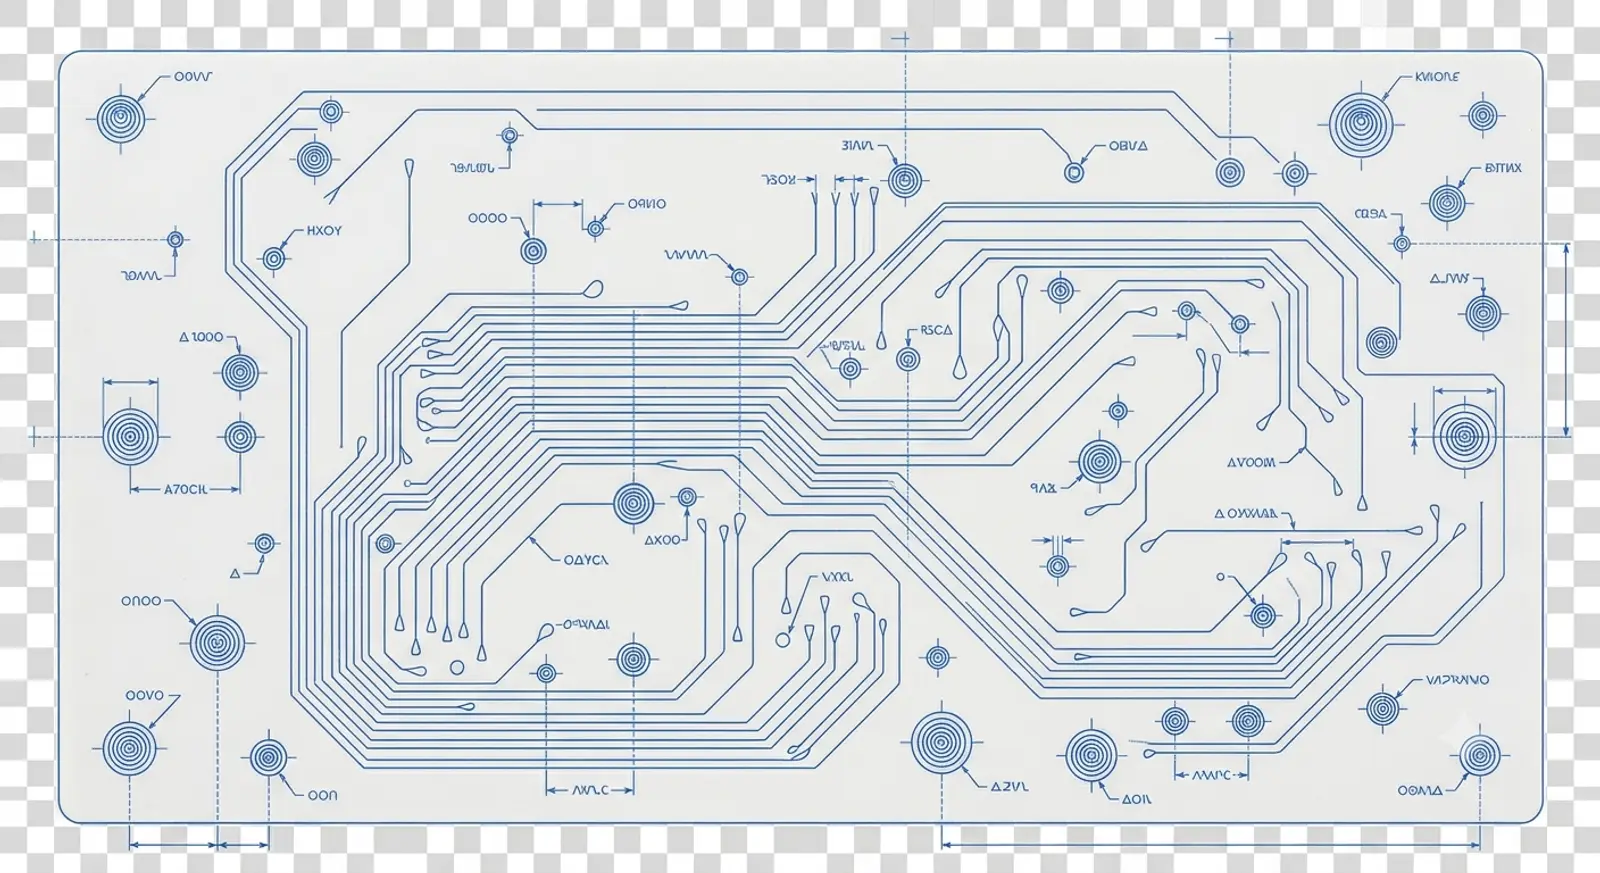
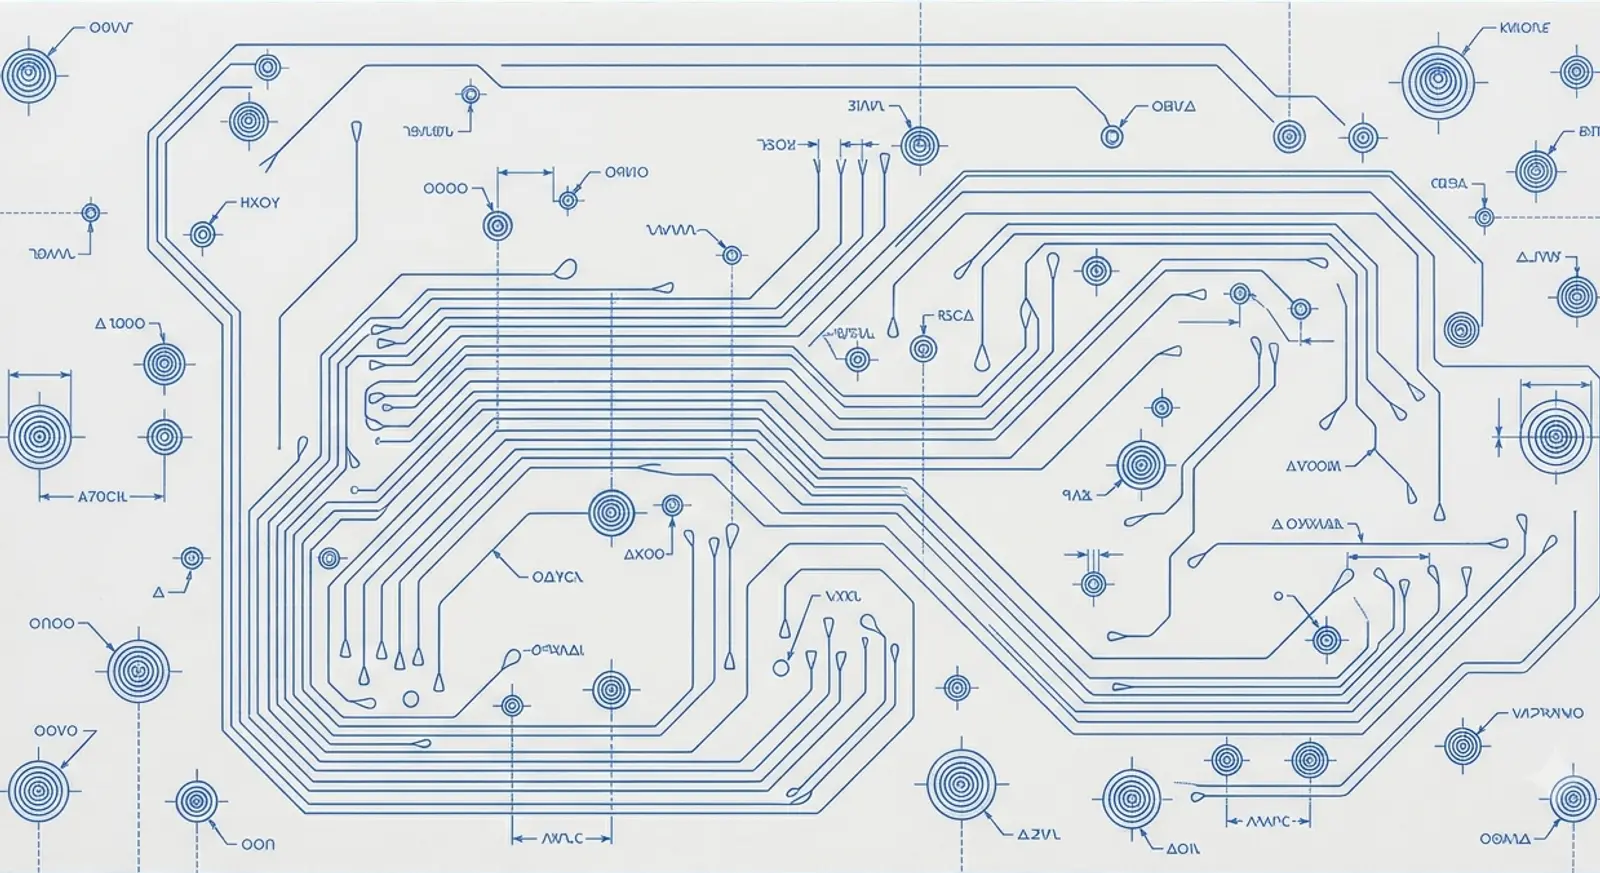
redesign: SEC.05 drawing register — FIG.01-04 index strip
Rotating wireframe core returns as FIG.01, contour, circuit plan, and
title block indexed like an engineering drawing list. Blueprint asset
recropped and brightness/multiply-blended to kill the generator's fake
checkerboard; footer stamp removed (register carries it now).

diff --git a/app/page.tsx b/app/page.tsx
@@ -1,5 +1,6 @@
 import Image from "next/image";
 import ContactForm from "@/components/ContactForm";
+import CoreArtifact from "@/components/CoreArtifact";
 import PhasedBuildIntro from "@/components/PhasedBuildIntro";
 import Reveal from "@/components/Reveal";
 import SystemMap from "@/components/SystemMap";
@@ -375,6 +376,58 @@ export default function Home() {
             </div>
           </Reveal>
         </section>
+        {/* SEC.05: Drawing register */}
+        <section className="mx-auto max-w-7xl px-6 pb-24 lg:px-12 lg:pb-32">
+          <Reveal>
+            <SectionRule sec="SEC.05" title="Drawing register" />
+            <div className="mt-14 grid gap-px overflow-hidden rounded-md border border-line bg-line-soft sm:grid-cols-2 lg:grid-cols-4">
+              <figure className="flex flex-col bg-void p-4">
+                <div className="h-40">
+                  <CoreArtifact />
+                </div>
+                <figcaption className="mt-3 font-mono text-legal uppercase text-ink-faint">
+                  FIG.01 / The core, rotating
+                </figcaption>
+              </figure>
+              <figure className="flex flex-col bg-void p-4">
+                <Image
+                  src="/tex/contour.webp"
+                  alt="Contour line drawing"
+                  width={1400}
+                  height={763}
+                  className="h-40 w-full object-cover brightness-105 mix-blend-multiply"
+                />
+                <figcaption className="mt-3 font-mono text-legal uppercase text-ink-faint">
+                  FIG.02 / Terrain, uncharted
+                </figcaption>
+              </figure>
+              <figure className="flex flex-col bg-void p-4">
+                <Image
+                  src="/tex/blueprint.webp"
+                  alt="Circuit blueprint drawing"
+                  width={1600}
+                  height={900}
+                  className="h-40 w-full object-cover brightness-[1.18] mix-blend-multiply"
+                />
+                <figcaption className="mt-3 font-mono text-legal uppercase text-ink-faint">
+                  FIG.03 / Circuit plan
+                </figcaption>
+              </figure>
+              <figure className="flex flex-col bg-void p-4">
+                <Image
+                  src="/tex/titleblock.webp"
+                  alt="Drafting title block"
+                  width={830}
+                  height={600}
+                  className="h-40 w-full object-contain brightness-110 mix-blend-multiply"
+                />
+                <figcaption className="mt-3 font-mono text-legal uppercase text-ink-faint">
+                  FIG.04 / Title block, unsigned
+                </figcaption>
+              </figure>
+            </div>
+          </Reveal>
+        </section>
       </main>
 
       {/* Footer */}
@@ -386,14 +439,6 @@ export default function Home() {
             width={107}
             height={80}
             className="h-20 w-auto self-start mix-blend-multiply"
-          />
-          <Image
-            src="/tex/titleblock.webp"
-            alt=""
-            aria-hidden
-            width={830}
-            height={600}
-            className="hidden w-52 brightness-110 mix-blend-multiply opacity-70 lg:block"
           />
           <div className="flex flex-col gap-2 font-mono text-legal text-ink-faint lg:text-right">
             <p>© 2026 BZ SYSTEMS LLC, OHIO, USA. ALL RIGHTS RESERVED.</p>